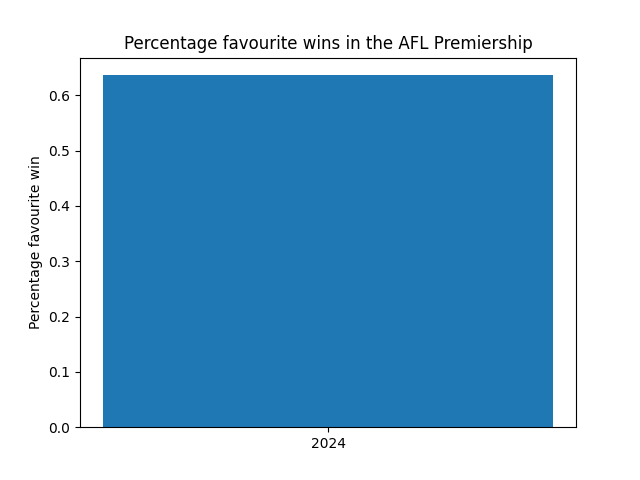
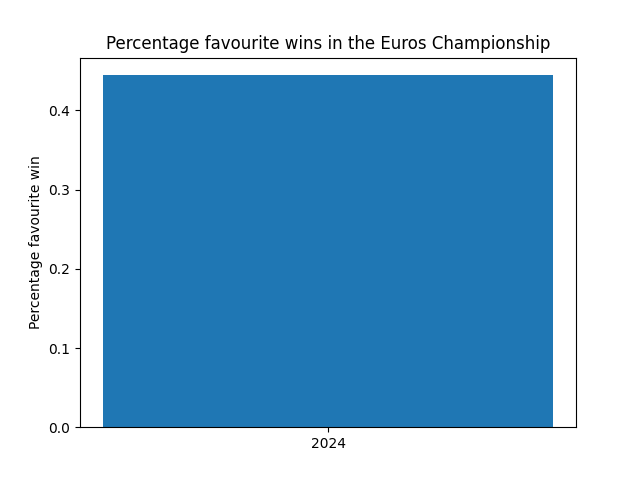
Adding matplot lib to each page for the chosen season

diff --git a/static/js/analysis.js b/static/js/analysis.js
@@ -138,12 +138,13 @@ function GetAnalysisData() {
     },
     success: function (response) {
       analysis = response.analysis;
-      ReportAnalysis(analysis);
+      PercentageAnalysis(analysis);
+      PlotGraph();
     },
   });
 }
 
-function ReportAnalysis(analysis) {
+function PercentageAnalysis(analysis) {
   console.log(analysis);
   if (analysis["perc_fav"]) {
     document.getElementById("analysis_output").innerHTML = analysis["perc_fav"];
@@ -151,4 +152,8 @@ function ReportAnalysis(analysis) {
     document.getElementById("analysis_output").innerHTML =
       "No data for the chosen season";
   }
+}
+
+function PlotGraph() {
+  document.getElementById("sport_img").src = "../static/img/fav_plot.png";
 }

diff --git a/server.py b/server.py
@@ -2,6 +2,9 @@ from flask import Flask, render_template, url_for, request, jsonify
 from Tools.Sports.sports_dicts import leagues_dict
 from data_analysis import *
 from Tools.Sports.sport_class import Sport
+import matplotlib
+
+matplotlib.use("agg")
 
 app = Flask(__name__)
 
@@ -59,6 +62,7 @@ def get_anaylsis(chosen_sport, chosen_league, chosen_season):
         chosen_season = int(chosen_season)
     sport = DataAnalysis(chosen_sport, df, int(chosen_league), chosen_season)
     perc_fav = sport.get_percentage_favourite()
+    sport.plot_season()
     analysis_list["perc_fav"] = perc_fav
 
     return analysis_list

diff --git a/data_analysis.py b/data_analysis.py
@@ -67,6 +67,7 @@ def plot_percentage_favourite_all_sports():
     proj_root = get_root.get_project_root()
     plt.savefig(str(proj_root) + "/static/img/fav_plot.png")
     plt.show()
+    plt.clf()
 
 
 def bet_on_fav_all_sports(bet=10):

diff --git a/Tools/DataAnalysis/data_analysis_class.py b/Tools/DataAnalysis/data_analysis_class.py
@@ -166,3 +166,4 @@ class DataAnalysis(SportClass):
         plt.bar(xpos, y_axis)
         proj_root = get_root.get_project_root()
         plt.savefig(str(proj_root) + "/static/img/fav_plot.png")
+        plt.clf()
